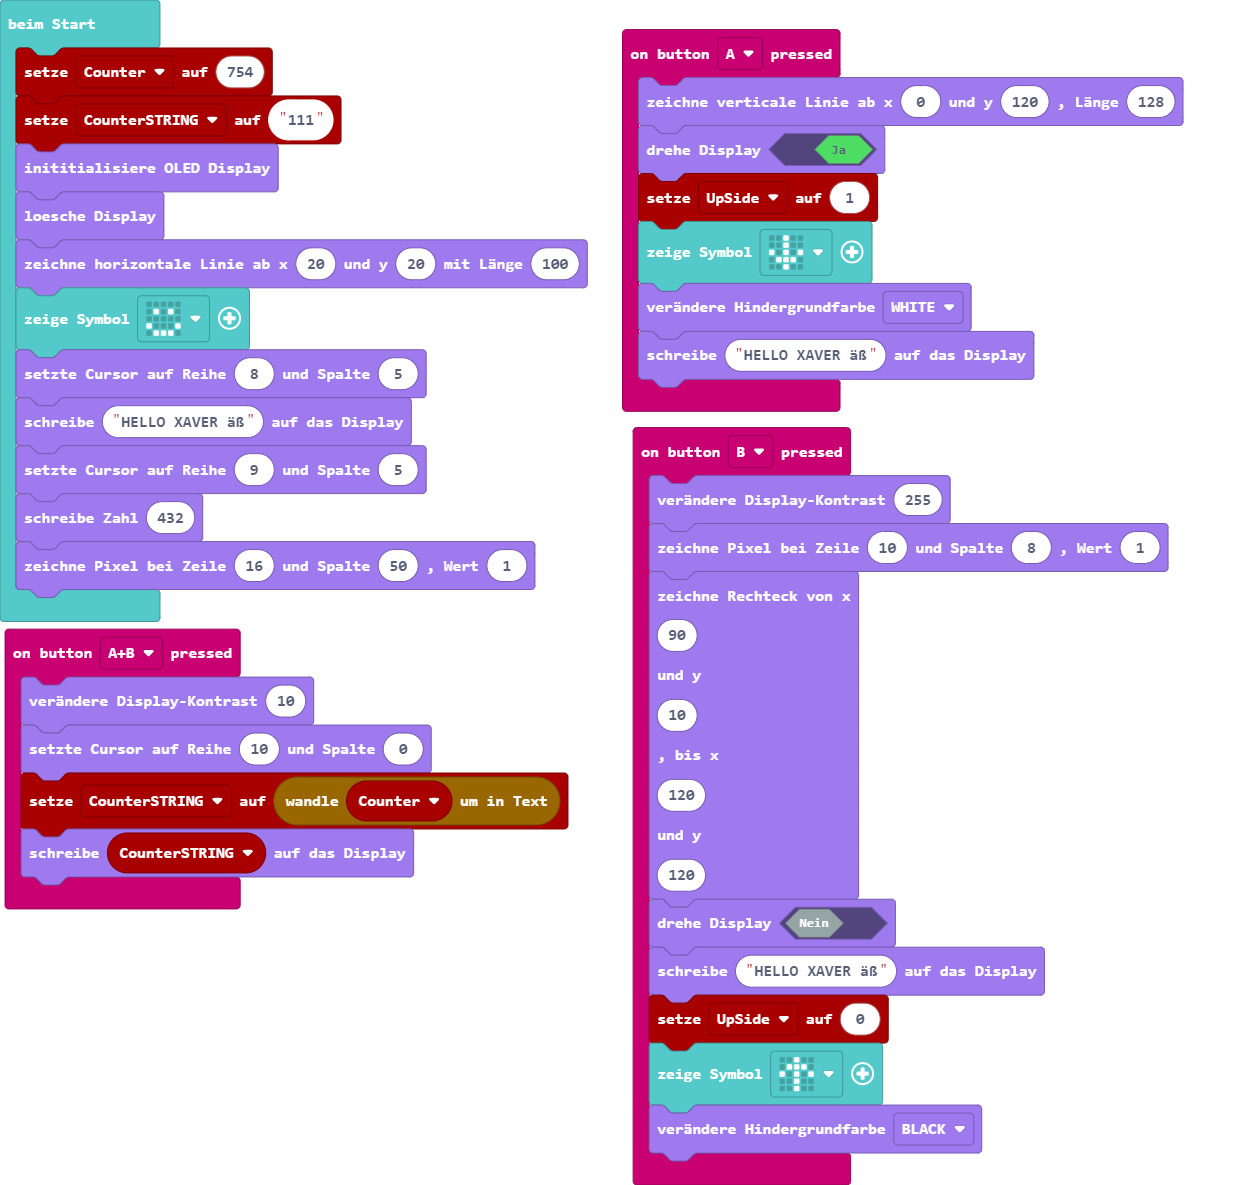
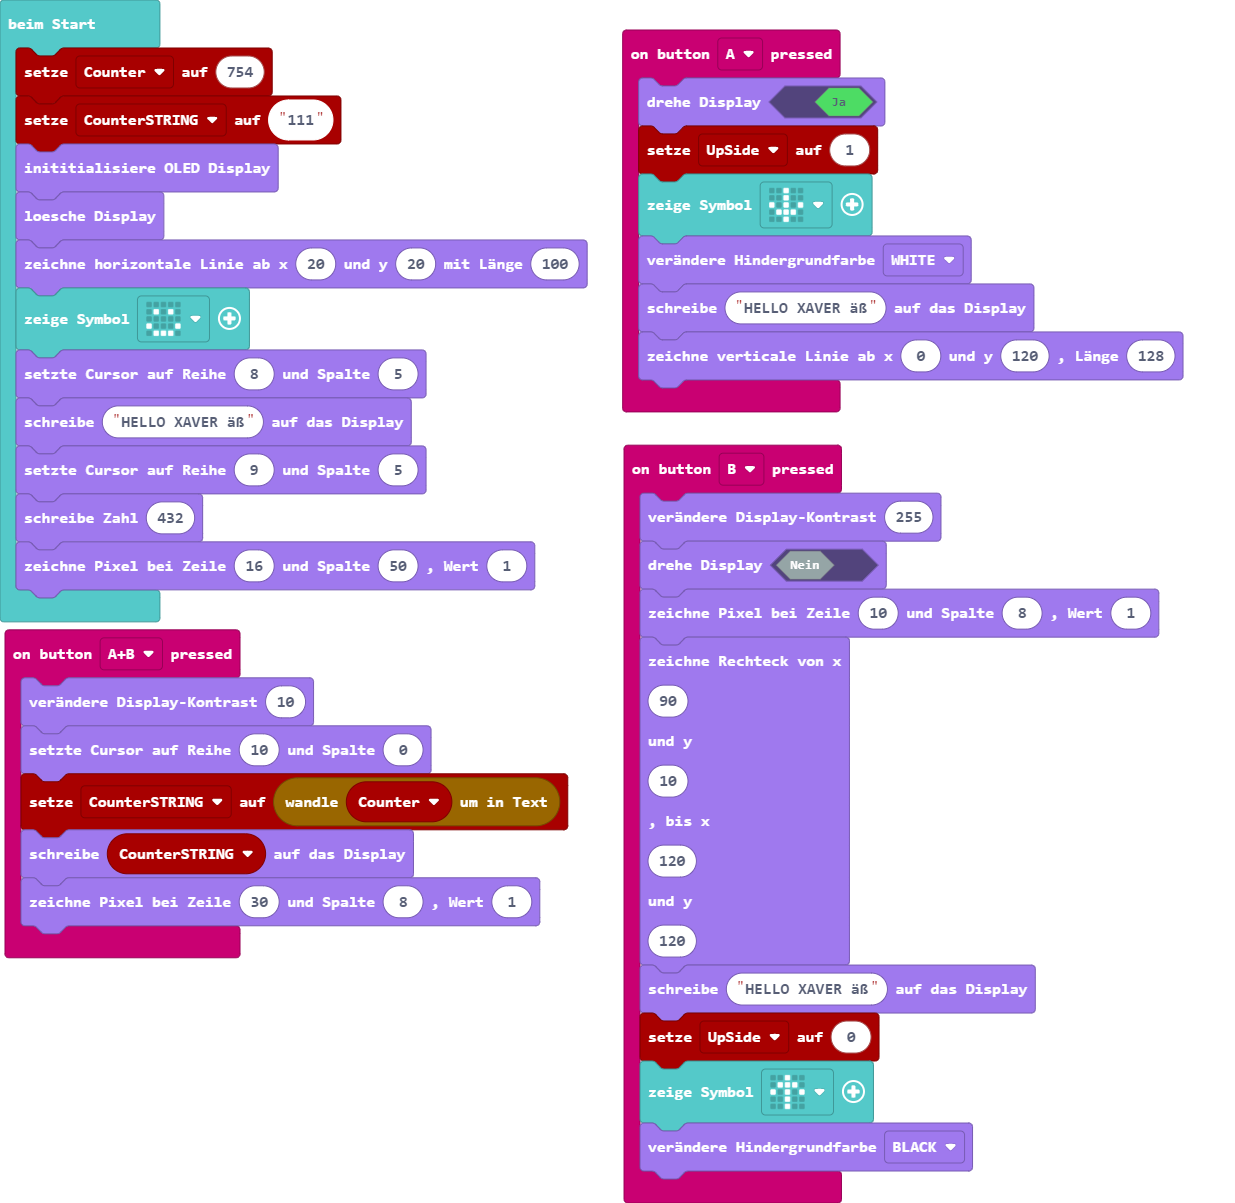
Aktualisiere main.blocks, main.ts, custom.ts

Changed region(s): [[0.0, 0.0312, 0.9846, 1.0]]

diff --git a/main.ts b/main.ts
@@ -1,19 +1,21 @@
 input.onButtonPressed(Button.A, function () {
-    groveOledDisplay.drawVLine(0, 120, 128)
     groveOledDisplay.flipDisplay(true)
     UpSide = 1
     basic.showIcon(IconNames.ArrowSouth)
     groveOledDisplay.setBackground(BckColor.WHITE)
     groveOledDisplay.writeString("HELLO XAVER äß")
+    groveOledDisplay.drawVLine(0, 120, 128)
 })
 input.onButtonPressed(Button.AB, function () {
     groveOledDisplay.setContrast(10)
     groveOledDisplay.setTextXY(10, 0)
     CounterSTRING = convertToText(Counter)
     groveOledDisplay.writeString(CounterSTRING)
+    groveOledDisplay.drawPixel(30, 8, 1)
 })
 input.onButtonPressed(Button.B, function () {
     groveOledDisplay.setContrast(255)
+    groveOledDisplay.flipDisplay(false)
     groveOledDisplay.drawPixel(10, 8, 1)
     groveOledDisplay.drawRec(
     90,
@@ -21,7 +23,6 @@ input.onButtonPressed(Button.B, function () {
     120,
     120
     )
-    groveOledDisplay.flipDisplay(false)
     groveOledDisplay.writeString("HELLO XAVER äß")
     UpSide = 0
     basic.showIcon(IconNames.ArrowNorth)

diff --git a/custom.ts b/custom.ts
@@ -154,7 +154,7 @@ namespace groveOledDisplay {
         //% weight=85
         export function flipDisplay(direction:boolean) {  
             if (direction){
-                sendCommand(0xA1);
+                sendCommand(0xA0);
                 sendCommand(0xC0);
                 clearDisplay();
                 sendCommand(0xb0);
@@ -162,7 +162,7 @@ namespace groveOledDisplay {
                 sendCommand(0x10);
             } 
             else {
-                sendCommand(0xA0);
+                sendCommand(0xA1);
                 sendCommand(0xC8);
                 clearDisplay();
                 sendCommand(0xb0);
